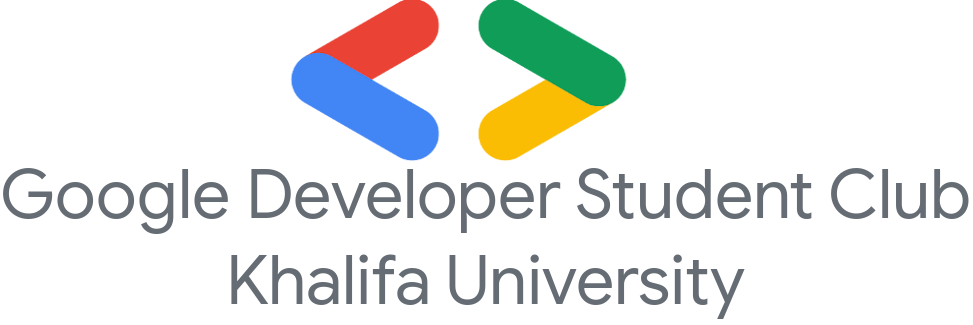
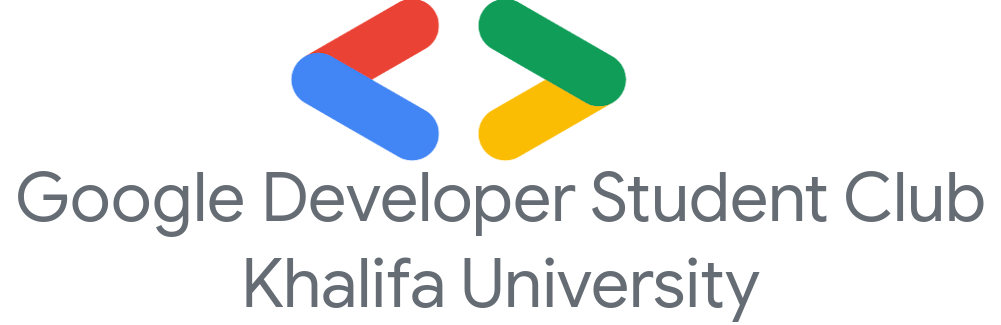
imageadjust

diff --git a/index.html b/index.html
@@ -18,7 +18,7 @@
 				<section id="header">
 
 					<!-- Logo -->
-						<h1><img style="display:block; width: 90%" href="index.html" src="images/Google-DSC-Khalifa-University-AD.png"></h1>
+						<h1><img style="display:block; width: 100%" href="index.html" src="images/Google-DSC-Khalifa-University-AD.png"></h1>
 
 					<!-- Nav -->
 						<nav id="nav">
